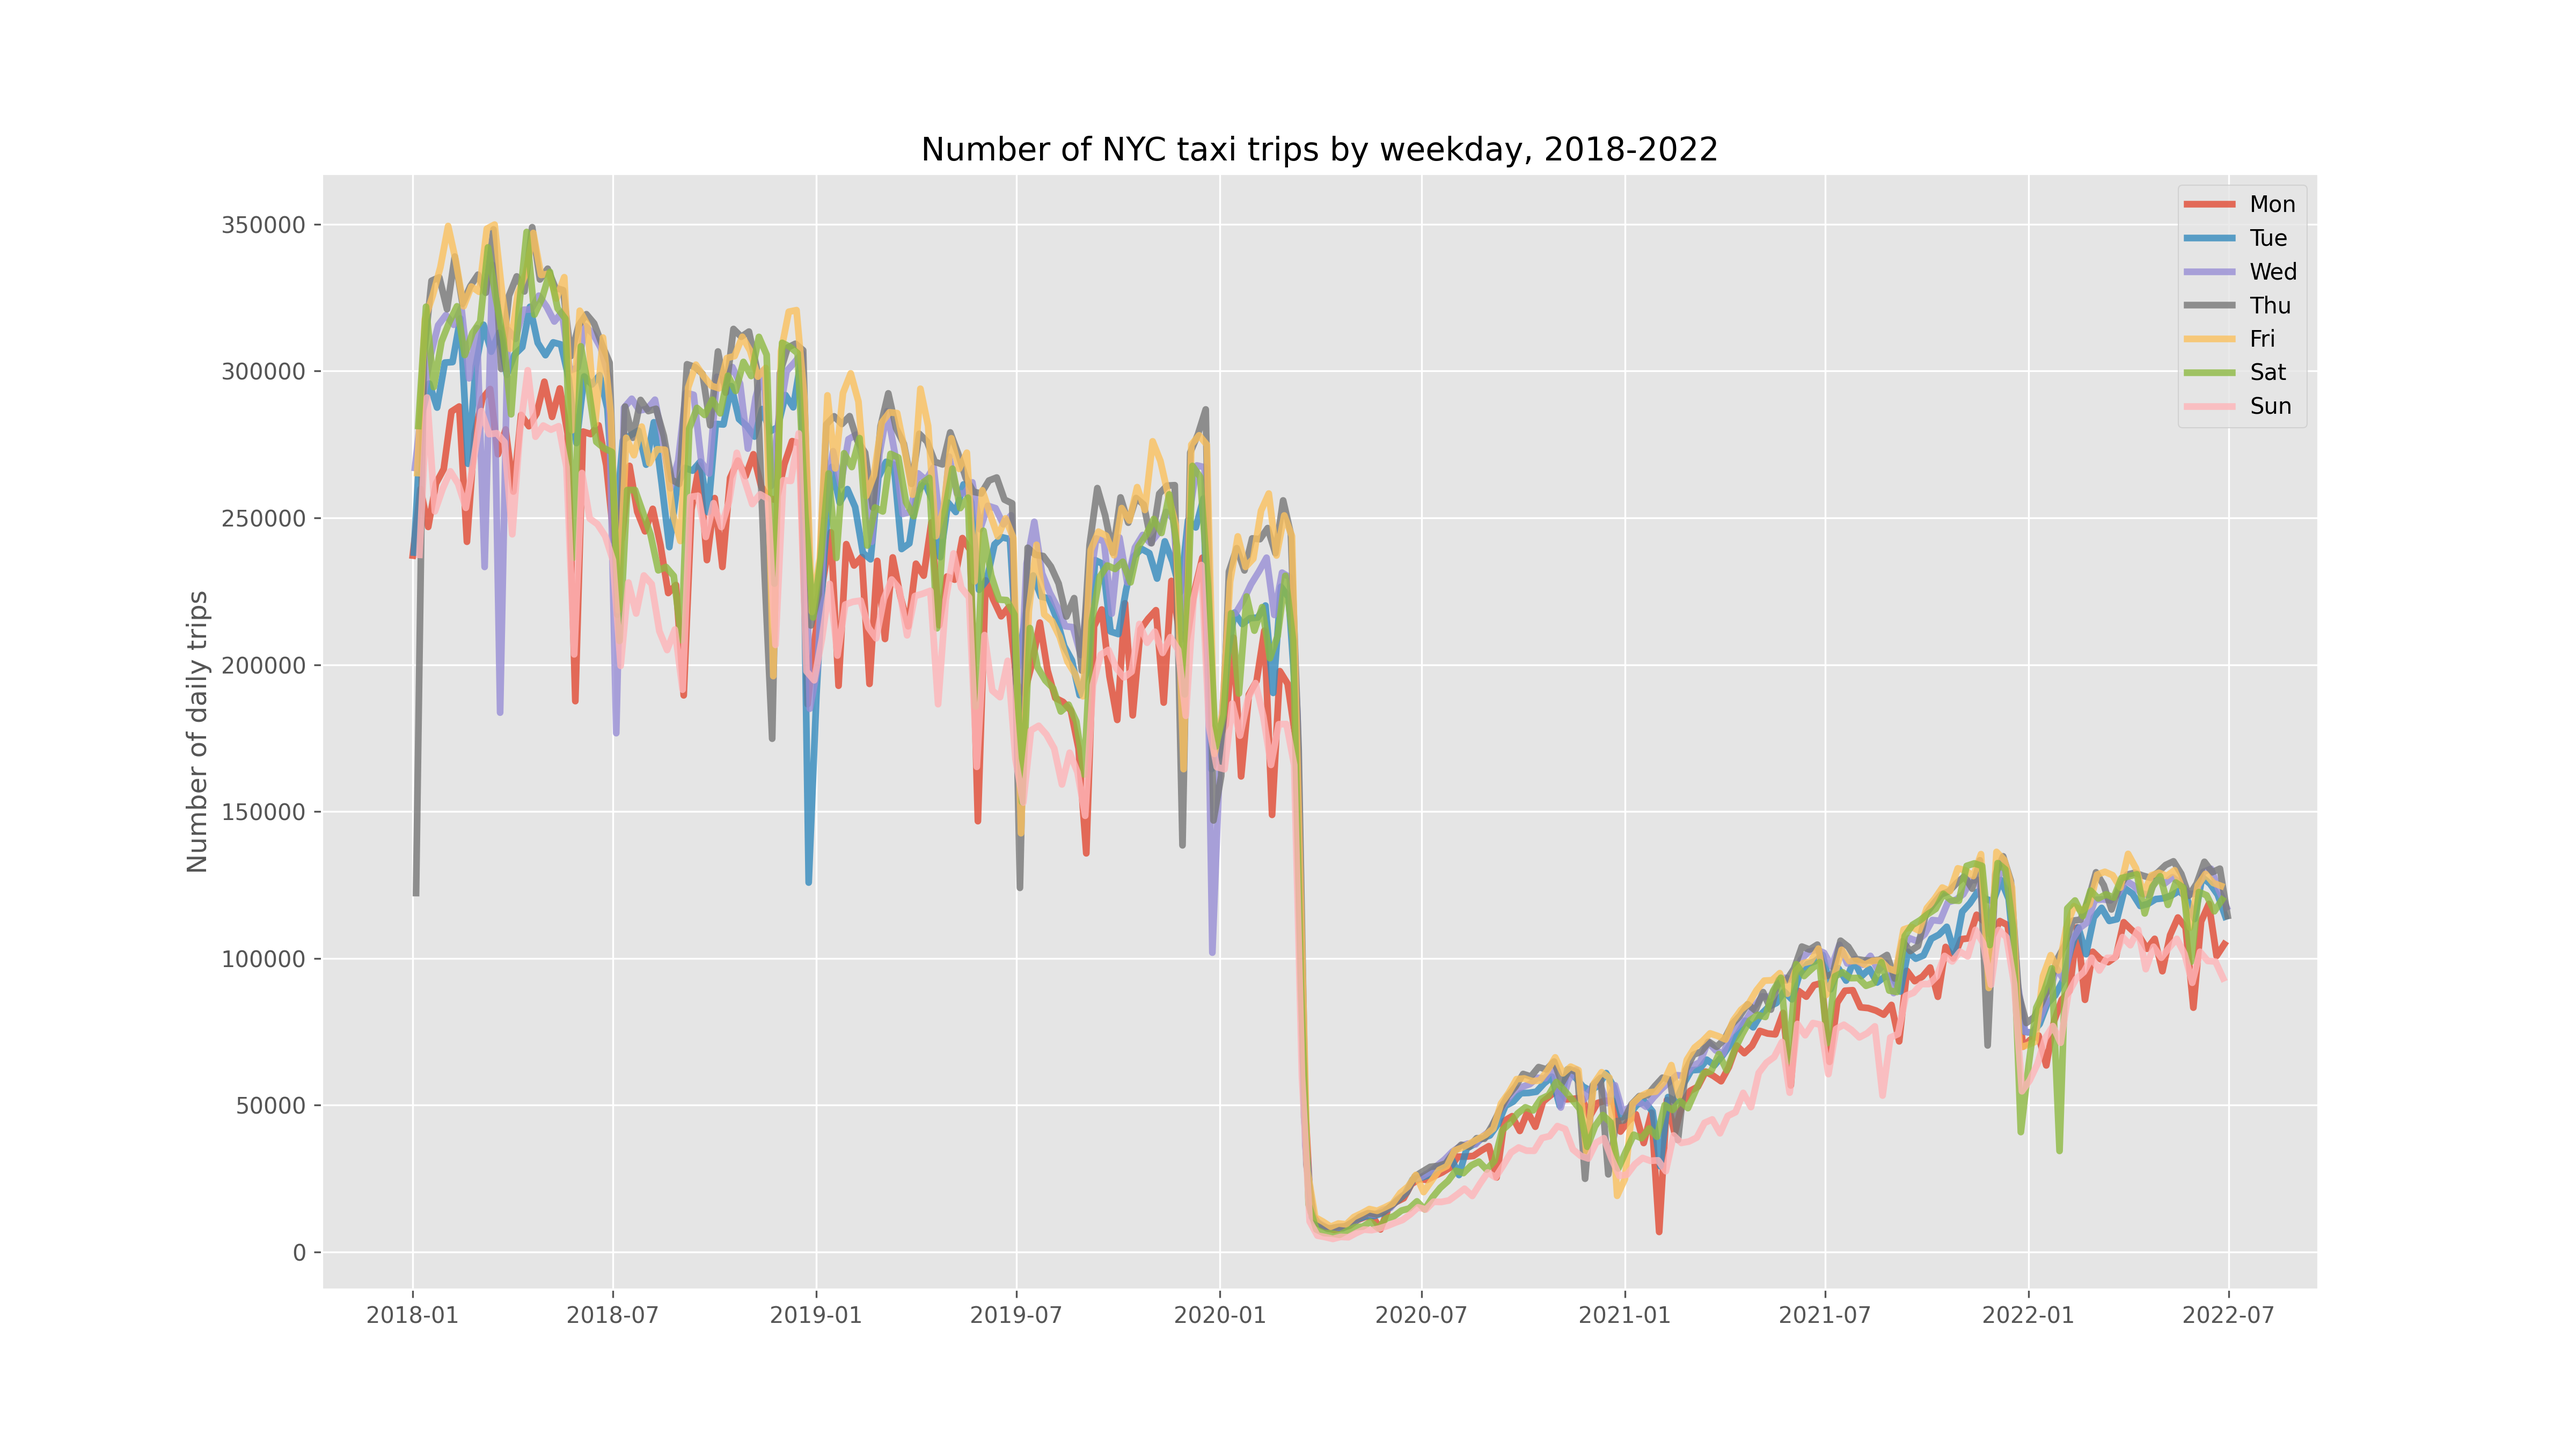
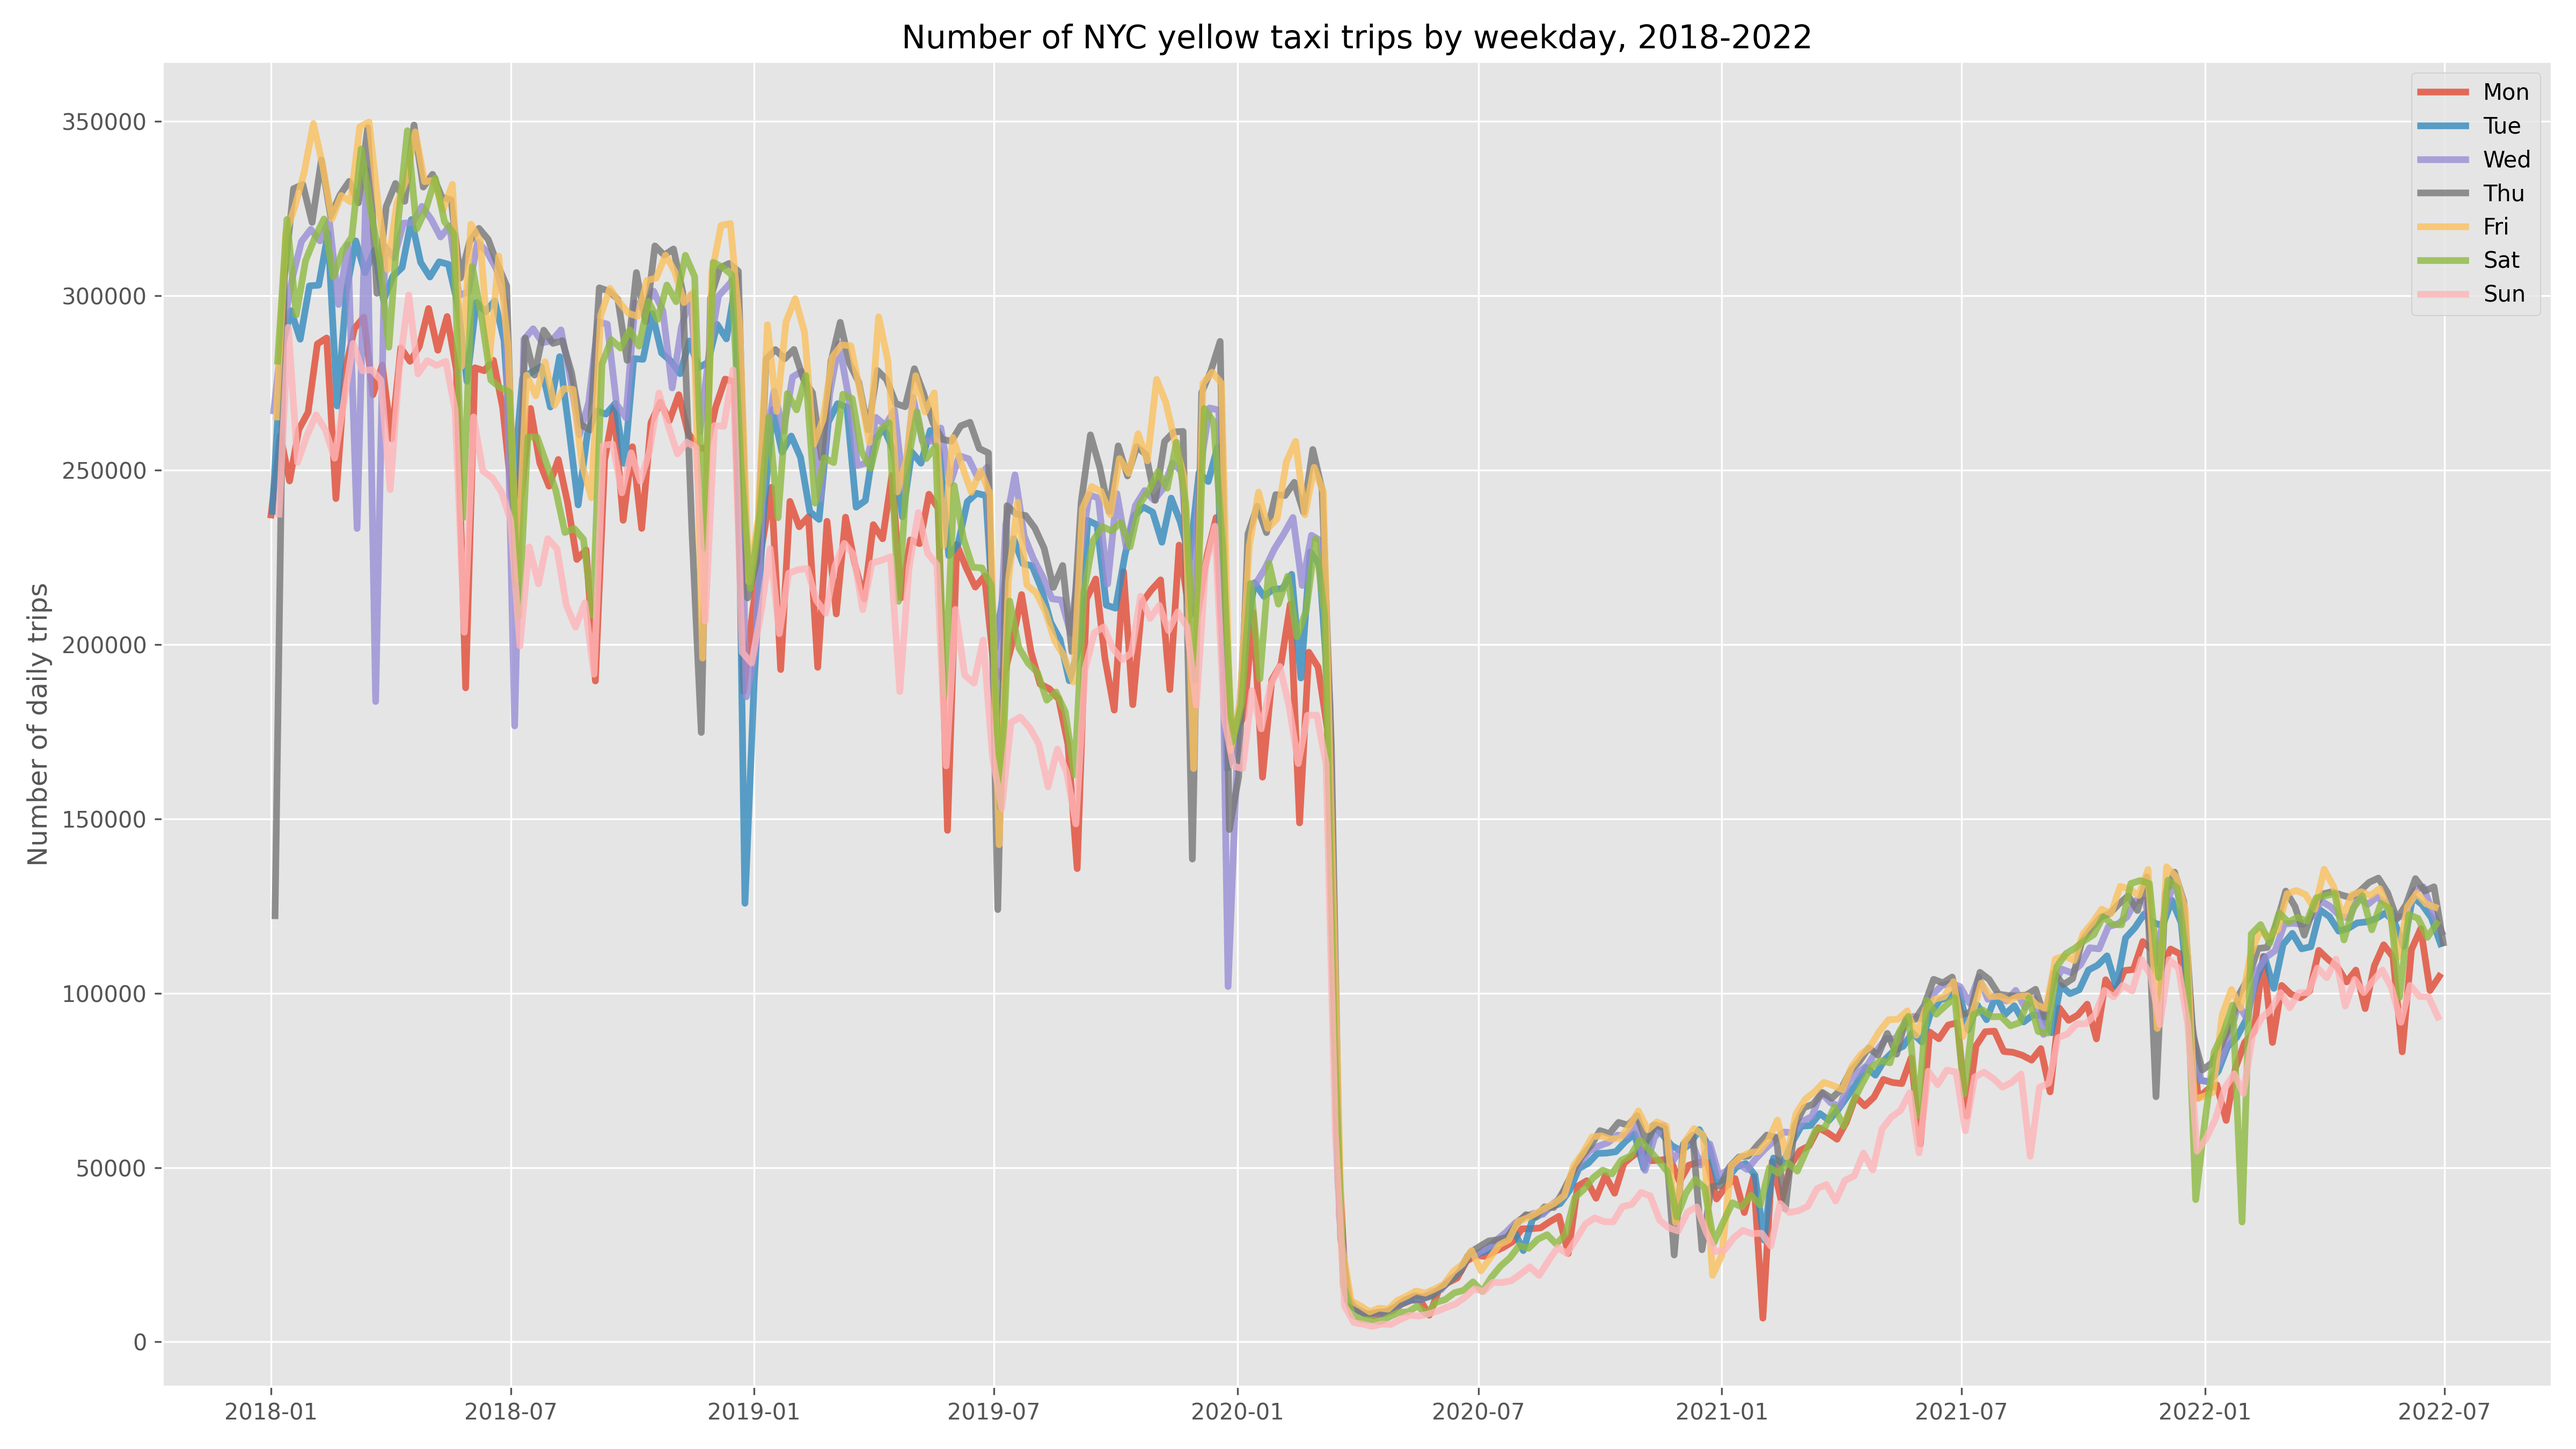
tight layout

diff --git a/10_integrations/duckdb_nyc_taxi.py b/10_integrations/duckdb_nyc_taxi.py
@@ -98,9 +98,10 @@ def main():
         pyplot.plot(dates, counts, linewidth=3, alpha=0.8, label=weekday)
 
     # Plot annotations
-    pyplot.title("Number of NYC taxi trips by weekday, 2018-2022")
+    pyplot.title("Number of NYC yellow taxi trips by weekday, 2018-2022")
     pyplot.ylabel("Number of daily trips")
     pyplot.legend()
+    pyplot.tight_layout()
 
     # Dump PNG and return
     buf = io.BytesIO()
